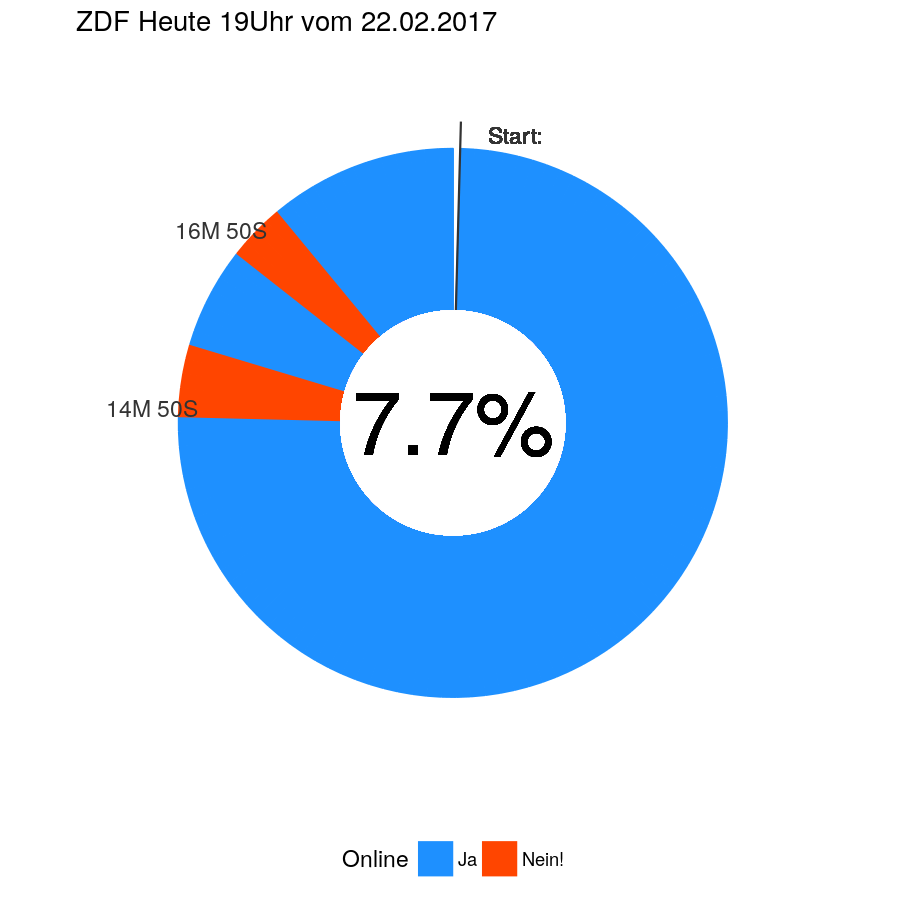
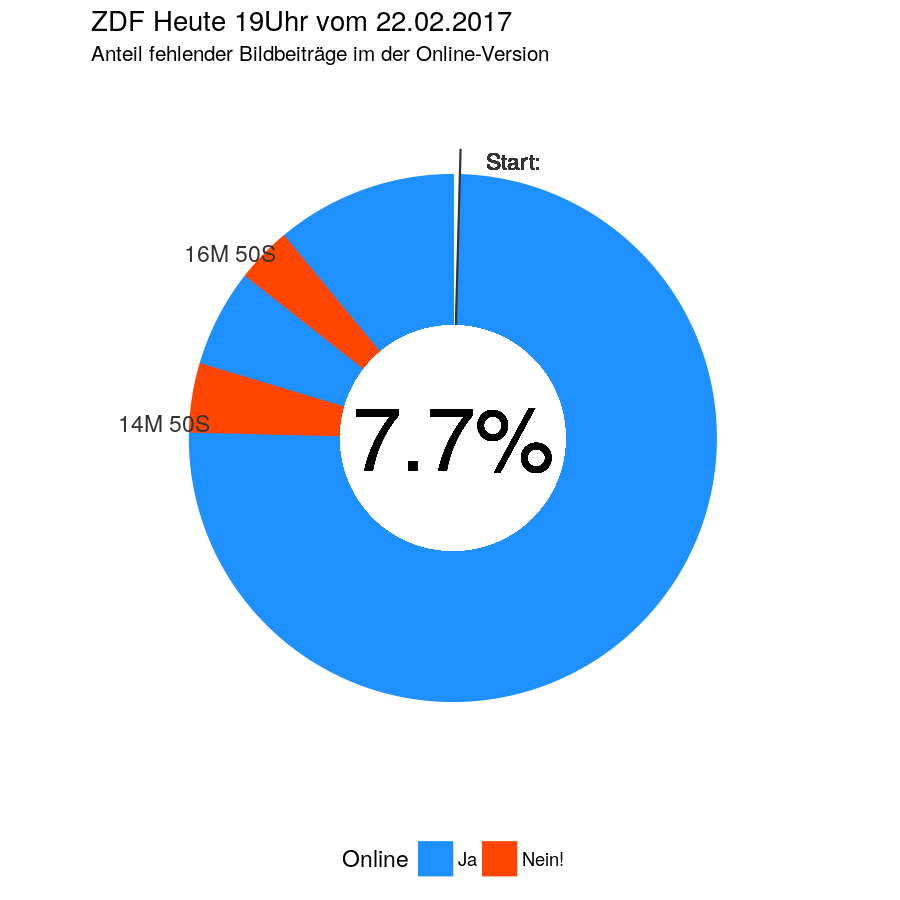
Major Improvement. Daten werden in CSV geschrieben, Kuchendiagramm mit Hintergrundbild

diff --git a/README.md b/README.md
@@ -7,10 +7,12 @@ Seit der Einführung des neuen Rundfunkbeitrags am 1.1.2013, ehemals GEZ, zahlen
 
 Viele Personen/Haushalte verzichten mittlerweile aus verschiedene Gründen auf ein Fernsehgerät und nutzen Mediatheken, online Streaming-Dienste usw., die das TV ersetzen. Obwohl sie für das öffentlich-rechtliche Fernsehen gleich viel zahlen, wie für die Nutzung eines Fernsehgerätes, stehen Ihnen online nicht die gleichen Inhalte zur Verfügung. Dieses Projekt beschäftigt sich mit Nachrichtensendungen des ZDF im Speziellen. Online werden Passagen aus der Berichterstattung ausgeschnitten, bzw. mit einem Standbild ("Die laufenden TV- Bilder dürfen aus rechtlichen Gründen nicht im Internet gezeigt werden") überschrieben. Die betroffenen Themenbereiche sind zumeist der Sportteil, aber auch andere Abschnitte können betroffen sein (z.B. eine Ansprache des Papstes oder Bilder zur Berichterstattung zum Erdbeben in Nepal). Welche Inhalte online verfügbar sind und welche nicht, ist für den Endnutzer nicht nachvollziehbar. Ich nehme an, dass es die von Dritten angekaufen Videosequenzen sind. Doch der Knackpunkt ist, wenn das ZDF unsere gemeinsamen Runfunkbeiträge an Dritte ausschüttet, müsste es sich für alle Beitragszahler gleichmäßig einsetzen. Verträge, welche lediglich die TV-Ausstrahulng zulassen, dürfen nicht abgeschlossen werden. TV und Online - wir zahlen das Gleiche, wir wollen das Gleiche sehen. Nur Mut ZDF...  
 
-![Bluescreen](./heuteZensiert.jpg)  
+![Bluescreen heute Zensiert](./heuteZensiert.jpg)  
 
 Der etwas reißerische Begriff Zensur wurde mit Absicht gewählt.   
 1) Dem digitalen Nachrichtenschauer werden bewusst Inhalte vorenthalten. Da die Nachrichten online zeitgleich (oder gar später) ausgestrahlt werden, hat Letzterer keine Möglichkeit mehr, die zensierten Passagen im TV nachzuschauen.  
 2) Die Online-Version der Nachrichtensendung wird offensichtlich nachbearbeitet. Digital Natives sind besonders betroffen und im Vergleich zu analogen Nutzern schlechter informiert.  
 3) Da einzelne eMails an `Zuschauerredaktion@zdf.de` leider keine sichtbaren Folgen nach sich ziehen, möchten die Initiatoren eine große Masse zu mobilisieren, um den Druck auf das ZDF zu erhöhen. Gleiche Leistung für gleichen Rundfunkbeitrag!  
 4) Ziel ist es datengratragene Krtik am ZDF zu üben, der resuliterende Datensatz ist frei verfügbar. 
+
+![Kuchendiagramm](./Kuchendiagramm2.png)  
